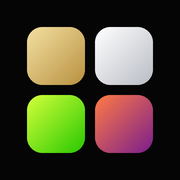
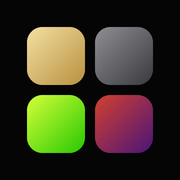
Fill cards with brand colours and make each card the link

Changed region(s): [[0.5278, 0.5278, 0.8611, 0.8611], [0.5278, 0.1389, 0.8611, 0.4722]]

diff --git a/index.html b/index.html
@@ -14,25 +14,26 @@
 <meta property="og:title" content="Perks, on me">
 <meta property="og:description" content="Giovanni’s referral links: free FSD, Grok Bot, a free stock and more.">
 <meta property="og:url" content="https://ggalletti1.github.io/referrals/">
-<meta property="og:image" content="https://ggalletti1.github.io/referrals/assets/og.png?v=39870c2b84">
+<meta property="og:image" content="https://ggalletti1.github.io/referrals/assets/og.png?v=a519a1b97d">
 <meta property="og:image:width" content="1200">
 <meta property="og:image:height" content="630">
 <meta property="og:image:alt" content="Perks, on me: Giovanni’s referrals">
 <meta name="twitter:card" content="summary_large_image">
 <meta name="twitter:title" content="Perks, on me">
 <meta name="twitter:description" content="Giovanni’s referral links: free FSD, Grok Bot, a free stock and more.">
-<meta name="twitter:image" content="https://ggalletti1.github.io/referrals/assets/og.png?v=39870c2b84">
+<meta name="twitter:image" content="https://ggalletti1.github.io/referrals/assets/og.png?v=a519a1b97d">
 <link rel="icon" href="favicon.ico" sizes="16x16 32x32 48x48">
 <link rel="icon" type="image/png" sizes="192x192" href="assets/icon-192.png">
 <link rel="apple-touch-icon" href="assets/apple-touch-icon.png">
 <link rel="manifest" href="site.webmanifest">
 <meta name="apple-mobile-web-app-title" content="Referrals">
 <script>/* set theme before first paint to avoid a flash */(function(){var d=document.documentElement,m='system';try{var s=localStorage.getItem('referrals-theme');if(s==='light'||s==='dark')m=s;}catch(e){}var t=m==='system'?(window.matchMedia&&matchMedia('(prefers-color-scheme: light)').matches?'light':'dark'):m;d.setAttribute('data-mode',m);d.setAttribute('data-theme',t);d.style.colorScheme=t;})();</script>
-<link rel="stylesheet" href="assets/style.css?v=5a4c7a5d7b">
+<link rel="stylesheet" href="assets/style.css?v=344b404526">
 </head>
 <body data-counter="https://abacus.jasoncameron.dev" data-ns="ggalletti1-referrals">
 <div class="page">
-<header class="top"><p class="eyebrow">Giovanni’s referrals</p>
+<header class="top">
+<h1>Perks, <span>on&nbsp;me.</span></h1>
 <div class="theme-wrap" id="theme-wrap">
 <button class="theme-btn" id="theme" type="button" aria-haspopup="menu" aria-expanded="false" aria-controls="theme-menu" title="Theme: System" aria-label="Theme: System">
 <svg class="ic ic-system" width="14" height="14" viewBox="0 0 24 24" fill="none" stroke="currentColor" stroke-width="1.8" stroke-linecap="round" stroke-linejoin="round" aria-hidden="true" focusable="false"><rect x="3" y="4" width="18" height="12" rx="2"/><path d="M8 20h8M12 16v4"/></svg>
@@ -46,39 +47,34 @@
 </div>
 </div>
 </header>
-<h1>Perks, <span>on&nbsp;me.</span></h1>
 <main class="grid" aria-label="Referral links">
-<article class="card" id="tesla" data-key="tesla" style="--fill:linear-gradient(180deg,#F3DFA2 0%,#D9B464 50%,#B8913F 100%);--ink:#2A1F05;--glow:#D9B464">
-<div class="tile" aria-hidden="true"><svg viewBox="0 0 24 24"><g transform="translate(12 12) scale(1.18) translate(-12 -14.4)"><path d="M2.5 15.6c0-.9.6-1.6 1.5-1.8l3.6-.7 2.4-2.3c.8-.7 1.8-1.1 2.9-1.1h2.2c1.2 0 2.3.5 3.1 1.3l1.6 1.8 1.5.4c.9.2 1.5 1 1.5 1.9v1.1c0 .5-.4.9-.9.9H3.4c-.5 0-.9-.4-.9-.9z" fill="currentColor"/><circle cx="7.4" cy="17.4" r="2.1" fill="currentColor" stroke="#D2AC5C" stroke-width="1.4"/><circle cx="17" cy="17.4" r="2.1" fill="currentColor" stroke="#D2AC5C" stroke-width="1.4"/></g></svg></div>
-<p class="name">Tesla</p>
-<p class="perk">Free month of FSD (Supervised)</p>
-<p class="count" hidden></p>
-<a class="cta" href="https://tesla.com/get-app/referral?code=giovanni87739" target="_blank" rel="noopener" aria-label="Claim: Tesla">Claim<svg viewBox="0 0 16 16" aria-hidden="true"><path d="M5 11 11 5M6 5h5v5" fill="none" stroke="currentColor" stroke-width="1.9" stroke-linecap="round" stroke-linejoin="round"/></svg></a>
-</article>
-<article class="card" id="grok-bot" data-key="grok-bot" style="--fill:var(--fg);--ink:var(--bg);--glow:#8E8E93">
-<div class="tile" aria-hidden="true"><svg viewBox="0 0 24 24"><path d="M12 3.5c.7 4.7 3.8 7.8 8.5 8.5-4.7.7-7.8 3.8-8.5 8.5-.7-4.7-3.8-7.8-8.5-8.5 4.7-.7 7.8-3.8 8.5-8.5z" fill="currentColor"/></svg></div>
-<p class="name">Grok Bot</p>
-<p class="perk">2 weeks free</p>
-<p class="count" hidden></p>
-<a class="cta" href="https://grok.com/refer/bot?code=4GP8KQR2NTVF" target="_blank" rel="noopener" aria-label="Claim: Grok Bot">Claim<svg viewBox="0 0 16 16" aria-hidden="true"><path d="M5 11 11 5M6 5h5v5" fill="none" stroke="currentColor" stroke-width="1.9" stroke-linecap="round" stroke-linejoin="round"/></svg></a>
-</article>
-<article class="card" id="robinhood" data-key="robinhood" style="--fill:#B6F400;--ink:#0B1A00;--glow:#7ED900">
-<div class="tile" aria-hidden="true"><svg viewBox="0 0 24 24"><path d="M3.5 17.5l5-5 3.5 3 8-8.5M15 7h5v5" fill="none" stroke="currentColor" stroke-width="2.2" stroke-linecap="round" stroke-linejoin="round"/></svg></div>
-<p class="name">Robinhood</p>
-<p class="perk">Free stock worth up to $200</p>
-<p class="count" hidden></p>
-<a class="cta" href="https://join.robinhood.com/giovang-7c7c02" target="_blank" rel="noopener" aria-label="Claim: Robinhood">Claim<svg viewBox="0 0 16 16" aria-hidden="true"><path d="M5 11 11 5M6 5h5v5" fill="none" stroke="currentColor" stroke-width="1.9" stroke-linecap="round" stroke-linejoin="round"/></svg></a>
-</article>
-<article class="card" id="leonida" data-key="leonida" style="--fill:linear-gradient(135deg,#5B1E8C 0%,#C21F72 50%,#FF7A45 100%);--ink:#FFFFFF;--glow:#FF3D8B">
-<div class="tile" aria-hidden="true"><svg viewBox="0 0 24 24"><path d="M6.5 13.5a5.5 5.5 0 0 1 11 0M3 13.5h18M6 17h12M9 20.5h6M12 4v1.6M5.6 6.8l1.1 1.1M18.4 6.8l-1.1 1.1" fill="none" stroke="currentColor" stroke-width="2" stroke-linecap="round"/></svg></div>
-<p class="name">Leonida State Guide</p>
-<p class="perk">Join the GTA VI guide</p>
-<p class="count" hidden></p>
-<a class="cta" href="https://leonidastate.guide/r/giovanni" target="_blank" rel="noopener" aria-label="Join: Leonida State Guide">Join<svg viewBox="0 0 16 16" aria-hidden="true"><path d="M5 11 11 5M6 5h5v5" fill="none" stroke="currentColor" stroke-width="1.9" stroke-linecap="round" stroke-linejoin="round"/></svg></a>
-</article>
+<a class="card" id="tesla" data-key="tesla" href="https://tesla.com/get-app/referral?code=giovanni87739" target="_blank" rel="noopener" aria-label="Tesla: Free month of FSD (Supervised)" style="--fill:linear-gradient(150deg,#F3DFA2 0%,#D9B464 48%,#B8913F 100%);--ink:#2A1F05;--glow:#B8913F;--tile:rgba(255,255,255,.38)">
+<span class="card-top"><span class="tile" aria-hidden="true"><svg viewBox="0 0 24 24"><g transform="translate(12 12) scale(1.18) translate(-12 -14.4)"><path d="M2.5 15.6c0-.9.6-1.6 1.5-1.8l3.6-.7 2.4-2.3c.8-.7 1.8-1.1 2.9-1.1h2.2c1.2 0 2.3.5 3.1 1.3l1.6 1.8 1.5.4c.9.2 1.5 1 1.5 1.9v1.1c0 .5-.4.9-.9.9H3.4c-.5 0-.9-.4-.9-.9z" fill="currentColor"/><circle cx="7.4" cy="17.4" r="2.1" fill="currentColor" stroke="#E3C47E" stroke-width="1.4"/><circle cx="17" cy="17.4" r="2.1" fill="currentColor" stroke="#E3C47E" stroke-width="1.4"/></g></svg></span><svg class="go" viewBox="0 0 16 16" aria-hidden="true"><path d="M5 11 11 5M6 5h5v5" fill="none" stroke="currentColor" stroke-width="1.9" stroke-linecap="round" stroke-linejoin="round"/></svg></span>
+<span class="name">Tesla</span>
+<span class="perk">Free month of FSD (Supervised)</span>
+<span class="count" hidden></span>
+</a>
+<a class="card" id="grok-bot" data-key="grok-bot" href="https://grok.com/refer/bot?code=4GP8KQR2NTVF" target="_blank" rel="noopener" aria-label="Grok Bot: 2 weeks free" style="--fill:linear-gradient(150deg,#55555B 0%,#2C2C30 55%,#18181B 100%);--ink:#FFFFFF;--glow:#000000;--tile:rgba(255,255,255,.14)">
+<span class="card-top"><span class="tile" aria-hidden="true"><svg viewBox="0 0 24 24"><path d="M12 3.5c.7 4.7 3.8 7.8 8.5 8.5-4.7.7-7.8 3.8-8.5 8.5-.7-4.7-3.8-7.8-8.5-8.5 4.7-.7 7.8-3.8 8.5-8.5z" fill="currentColor"/></svg></span><svg class="go" viewBox="0 0 16 16" aria-hidden="true"><path d="M5 11 11 5M6 5h5v5" fill="none" stroke="currentColor" stroke-width="1.9" stroke-linecap="round" stroke-linejoin="round"/></svg></span>
+<span class="name">Grok Bot</span>
+<span class="perk">2 weeks free</span>
+<span class="count" hidden></span>
+</a>
+<a class="card" id="robinhood" data-key="robinhood" href="https://join.robinhood.com/giovang-7c7c02" target="_blank" rel="noopener" aria-label="Robinhood: Free stock worth up to $200" style="--fill:linear-gradient(150deg,#D4FF3A 0%,#B6F400 50%,#8FD400 100%);--ink:#0B1A00;--glow:#7ED900;--tile:rgba(255,255,255,.42)">
+<span class="card-top"><span class="tile" aria-hidden="true"><svg viewBox="0 0 24 24"><path d="M3.5 17.5l5-5 3.5 3 8-8.5M15 7h5v5" fill="none" stroke="currentColor" stroke-width="2.2" stroke-linecap="round" stroke-linejoin="round"/></svg></span><svg class="go" viewBox="0 0 16 16" aria-hidden="true"><path d="M5 11 11 5M6 5h5v5" fill="none" stroke="currentColor" stroke-width="1.9" stroke-linecap="round" stroke-linejoin="round"/></svg></span>
+<span class="name">Robinhood</span>
+<span class="perk">Free stock worth up to $200</span>
+<span class="count" hidden></span>
+</a>
+<a class="card" id="leonida" data-key="leonida" href="https://leonidastate.guide/r/giovanni" target="_blank" rel="noopener" aria-label="Leonida State Guide: Join the GTA VI guide" style="--fill:linear-gradient(135deg,#D2412F 0%,#B0186A 45%,#4A1478 100%);--ink:#FFFFFF;--glow:#B0186A;--tile:rgba(255,255,255,.18)">
+<span class="card-top"><span class="tile" aria-hidden="true"><svg viewBox="0 0 24 24"><path d="M6.5 13.5a5.5 5.5 0 0 1 11 0M3 13.5h18M6 17h12M9 20.5h6M12 4v1.6M5.6 6.8l1.1 1.1M18.4 6.8l-1.1 1.1" fill="none" stroke="currentColor" stroke-width="2" stroke-linecap="round"/></svg></span><svg class="go" viewBox="0 0 16 16" aria-hidden="true"><path d="M5 11 11 5M6 5h5v5" fill="none" stroke="currentColor" stroke-width="1.9" stroke-linecap="round" stroke-linejoin="round"/></svg></span>
+<span class="name">Leonida State Guide</span>
+<span class="perk">Join the GTA VI guide</span>
+<span class="count" hidden></span>
+</a>
 </main>
 <footer class="foot">Not affiliated with Tesla, xAI, Robinhood or Leonida State Guide.</footer>
 </div>
-<script src="assets/app.js?v=e1e7f9ee9d" defer></script>
+<script src="assets/app.js?v=b8cc669280" defer></script>
 </body>
 </html>

diff --git a/assets/style.css b/assets/style.css
@@ -1,4 +1,4 @@
-/* Referrals: headline + 2x2 cards that fit one viewport (dvh). Dark by default; light via the theme menu (same control as MyTesla). */
+/* Referrals: headline + theme button row, 2x2 brand-filled link cards that fit one viewport (dvh). Dark by default; light via the theme menu (same control as MyTesla). */
 :root{--bg:#050506;--fg:#f5f5f7;--mute:#8e8e93;--card:#121214;--line:rgba(255,255,255,.08);--acc:#e82127;
   font-family:-apple-system,BlinkMacSystemFont,"SF Pro Text","SF Pro Display","Helvetica Neue",Inter,system-ui,sans-serif;-webkit-font-smoothing:antialiased}
 [data-theme=light]{--bg:#f5f5f7;--fg:#1d1d1f;--mute:#6e6e73;--card:#fff;--line:rgba(0,0,0,.08)}
@@ -7,25 +7,29 @@ html,body{margin:0;background:var(--bg);color:var(--fg);-webkit-text-size-adjust
 a{color:inherit}
 .page{height:100vh;height:100dvh;max-width:820px;margin:0 auto;display:flex;flex-direction:column;
   padding:max(10px,env(safe-area-inset-top)) max(16px,env(safe-area-inset-right)) max(8px,env(safe-area-inset-bottom)) max(16px,env(safe-area-inset-left))}
-.top{display:flex;align-items:center;justify-content:space-between;gap:8px;flex:none}
-.eyebrow{font-size:13px;font-weight:600;color:var(--mute);margin:0;white-space:nowrap}
-h1{font-size:clamp(30px,7dvh,60px);line-height:1.02;font-weight:700;letter-spacing:-.04em;margin:clamp(4px,1.6dvh,20px) 0 clamp(12px,3dvh,32px);flex:none;white-space:nowrap}
+.top{display:flex;align-items:center;justify-content:space-between;gap:12px;flex:none;margin:clamp(6px,2dvh,24px) 0 clamp(12px,3dvh,32px)}
+h1{font-size:min(clamp(30px,7dvh,60px),10.5vw);line-height:1.02;font-weight:700;letter-spacing:-.04em;margin:0;white-space:nowrap;min-width:0}
 h1 span{color:var(--mute)}
-.grid{flex:1;min-height:0;display:grid;grid-template-columns:repeat(2,minmax(0,1fr));grid-template-rows:repeat(2,minmax(0,1fr));gap:clamp(8px,1.6dvh,16px)}
-.card{position:relative;display:flex;flex-direction:column;min-height:0;overflow:hidden;padding:min(clamp(12px,2.4dvh,24px),4.6vw);border-radius:clamp(18px,2.8dvh,26px);
-  background:radial-gradient(130% 90% at 0% 0%,color-mix(in srgb,var(--glow) 16%,transparent),transparent 62%),var(--card);border:1px solid var(--line)}
-.tile{width:clamp(34px,6dvh,50px);height:clamp(34px,6dvh,50px);border-radius:28%;display:grid;place-items:center;flex:none;background:var(--fill);color:var(--ink);
-  box-shadow:inset 0 1px 0 rgba(255,255,255,.35),0 4px 14px color-mix(in srgb,var(--glow) 30%,transparent)}
+.grid{flex:1;min-height:0;display:grid;grid-template-columns:repeat(2,minmax(0,1fr));grid-template-rows:repeat(2,minmax(0,1fr));gap:clamp(10px,1.8dvh,18px)}
+/* card = one link, filled with its brand colour (Wallet-style) */
+.card{position:relative;isolation:isolate;display:flex;flex-direction:column;min-height:0;overflow:hidden;text-decoration:none;
+  padding:min(clamp(14px,2.6dvh,26px),4.8vw);border-radius:clamp(20px,3dvh,30px);background:var(--fill);color:var(--ink);
+  box-shadow:inset 0 0 0 1px rgba(255,255,255,.12),0 1px 2px rgba(0,0,0,.12),0 10px 28px -10px color-mix(in srgb,var(--glow) 55%,transparent);
+  transition:transform .25s cubic-bezier(.2,.8,.2,1),box-shadow .25s;-webkit-tap-highlight-color:transparent}
+.card::before{content:"";position:absolute;inset:0;z-index:-1;pointer-events:none;background:linear-gradient(180deg,rgba(255,255,255,.22),rgba(255,255,255,0) 42%)}
+@media (hover:hover){.card:hover{transform:scale(1.02)}}
+.card:active{transform:scale(.97)}
+.card:focus-visible{outline:3px solid var(--fg);outline-offset:3px}
+.card-top{display:flex;align-items:flex-start;justify-content:space-between}
+.tile{width:clamp(34px,6dvh,50px);height:clamp(34px,6dvh,50px);border-radius:28%;display:grid;place-items:center;flex:none;background:var(--tile);color:var(--ink);
+  -webkit-backdrop-filter:blur(6px);backdrop-filter:blur(6px)}
 .tile svg{width:62%;height:62%}
-.name{margin:auto 0 0;padding-top:8px;font-size:min(clamp(12px,1.8dvh,15px),3.4vw);font-weight:600;color:var(--mute);white-space:nowrap;overflow:hidden;text-overflow:ellipsis}
-.perk{margin:2px 0 0;font-size:min(clamp(16px,2.9dvh,26px),5.4vw);line-height:1.12;font-weight:700;letter-spacing:-.025em;text-wrap:balance}
-.count{margin:4px 0 0;font-size:12px;color:var(--mute);min-height:1.2em}
+.go{width:clamp(16px,2.4dvh,20px);height:clamp(16px,2.4dvh,20px);opacity:.7;flex:none}
+.name{margin:auto 0 0;padding-top:8px;font-size:min(clamp(12px,1.8dvh,15px),3.4vw);font-weight:600;white-space:nowrap;overflow:hidden;text-overflow:ellipsis}
+.perk{margin:2px 0 0;font-size:min(clamp(17px,2.9dvh,26px),5.4vw);line-height:1.12;font-weight:700;letter-spacing:-.025em;text-wrap:balance}
+.count{margin:6px 0 0;font-size:12px;font-weight:500;min-height:1.2em}
 .count[hidden]{display:block;visibility:hidden}
-.cta{margin-top:clamp(8px,1.6dvh,16px);display:flex;align-items:center;justify-content:center;gap:6px;height:clamp(36px,5.4dvh,46px);border-radius:999px;flex:none;
-  background:var(--fill);color:var(--ink);font-size:clamp(15px,2dvh,17px);font-weight:600;text-decoration:none;white-space:nowrap;transition:filter .2s,transform .15s}
-.cta:hover{filter:brightness(1.07)}.cta:active{transform:scale(.97)}
-.cta svg{width:14px;height:14px}
-.foot{flex:none;margin:clamp(6px,1.4dvh,14px) 0 0;font-size:min(11px,3.1vw);color:var(--mute);text-align:center;white-space:nowrap;overflow:hidden;text-overflow:ellipsis}
+.foot{flex:none;margin:clamp(8px,1.6dvh,16px) 0 0;font-size:min(11px,3.1vw);color:var(--mute);text-align:center;text-wrap:balance}
 /* theme menu (copied from MyTesla) */
 .theme-wrap{position:relative}
 .theme-btn{display:inline-flex;align-items:center;justify-content:center;width:34px;height:34px;padding:0;border-radius:17px;border:1px solid var(--line);background:var(--card);color:var(--fg);font:inherit;cursor:pointer}.theme-btn .ic{width:16px;height:16px}
@@ -34,5 +38,4 @@ h1 span{color:var(--mute)}
 .theme-wrap.open .theme-menu{display:block}
 .tm-item{display:flex;align-items:center;justify-content:space-between;gap:12px;width:100%;padding:9px 10px;border:0;border-radius:8px;background:none;color:var(--fg);font:inherit;font-size:14px;cursor:pointer;text-align:left}
 .tm-item:hover,.tm-item:focus{background:var(--line);outline:none}.tm-item[aria-checked=true]{color:var(--acc);background:var(--line)}.tm-item .tm-ic{width:18px;height:18px}
-@media (min-width:700px){.card{padding:clamp(16px,2.8dvh,28px)}}
 @media (prefers-reduced-motion:reduce){*{transition:none!important}}

diff --git a/assets/app.js b/assets/app.js
@@ -29,7 +29,7 @@ const $ = id => document.getElementById(id);
   if (mq) (mq.addEventListener ? mq.addEventListener('change', apply) : mq.addListener(apply));
   apply();
 })();
-/* click counter: public Abacus counters (no cookies, no keys). Read on load, +1 on click without delaying the link.
+/* click counter: public Abacus counters (no cookies, no keys). Read on load, +1 when the card (a link) is clicked, without delaying it.
    Any failure or a zero count keeps the line hidden. */
 (function counters() {
   const b = document.body.dataset, api = b.counter && b.ns ? b.counter.replace(/\/$/, '') : ''; if (!api || !window.fetch) return;
@@ -40,9 +40,11 @@ const $ = id => document.getElementById(id);
     return fetch(api + path, {cache: 'no-store', credentials: 'omit', referrerPolicy: 'no-referrer', keepalive: !!keepalive, signal: ctl && !keepalive ? ctl.signal : undefined})
       .then(r => r.ok ? r.json() : null).then(d => d && d.value).catch(() => null);
   };
-  document.querySelectorAll('.card[data-key]').forEach(card => {
-    const el = card.querySelector('.count'), key = card.dataset.key;
-    call('/get/' + b.ns + '/' + key).then(v => show(el, v));
-    card.querySelector('.cta').addEventListener('click', () => { call('/hit/' + b.ns + '/' + key, true).then(v => show(el, v)); });
+  document.querySelectorAll('a.card[data-key]').forEach(card => {
+    const el = card.querySelector('.count'), path = b.ns + '/' + card.dataset.key;
+    call('/get/' + path).then(v => show(el, v));
+    const hit = () => { call('/hit/' + path, true).then(v => show(el, v)); };   // fire-and-forget: navigation is never delayed
+    card.addEventListener('click', hit);
+    card.addEventListener('auxclick', e => { if (e.button === 1) hit(); });
   });
 })();
